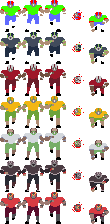
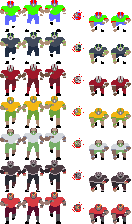
Adds the charging up animation to the enemies.

diff --git a/Assets/Scripts/Enemies/TackleEnemy.cs b/Assets/Scripts/Enemies/TackleEnemy.cs
@@ -8,10 +8,13 @@ public class TackleEnemy : Enemy
     public int StartTackleDistance = 10;
     public float CHARGE_DURATION = 2f;
     public float TackleSpeed = 1f;
+
     private float _chargeTimer = 0f;
+    private Animator _animationController;
 
     protected override void Start()
     {
+        _animationController = GetComponent<Animator>();
         State = States.Pursuing;
     }
 
@@ -25,12 +28,17 @@ public class TackleEnemy : Enemy
         {
             _currentSpeedX = 0;
             _currentSpeedY = 0;
+
+            _animationController.SetTrigger("charging");
+
             State = States.Charging;
         }
         else if(State == States.Charging && _chargeTimer <= CHARGE_DURATION) {
             _chargeTimer += Time.deltaTime;
         }
-        else if(State == States.Charging && _chargeTimer > CHARGE_DURATION){
+        else if(State == States.Charging && _chargeTimer > CHARGE_DURATION)
+        {
+            _animationController.SetTrigger("running");
             State = States.Tackling;
         } else if(State == States.Tackling)
         {
